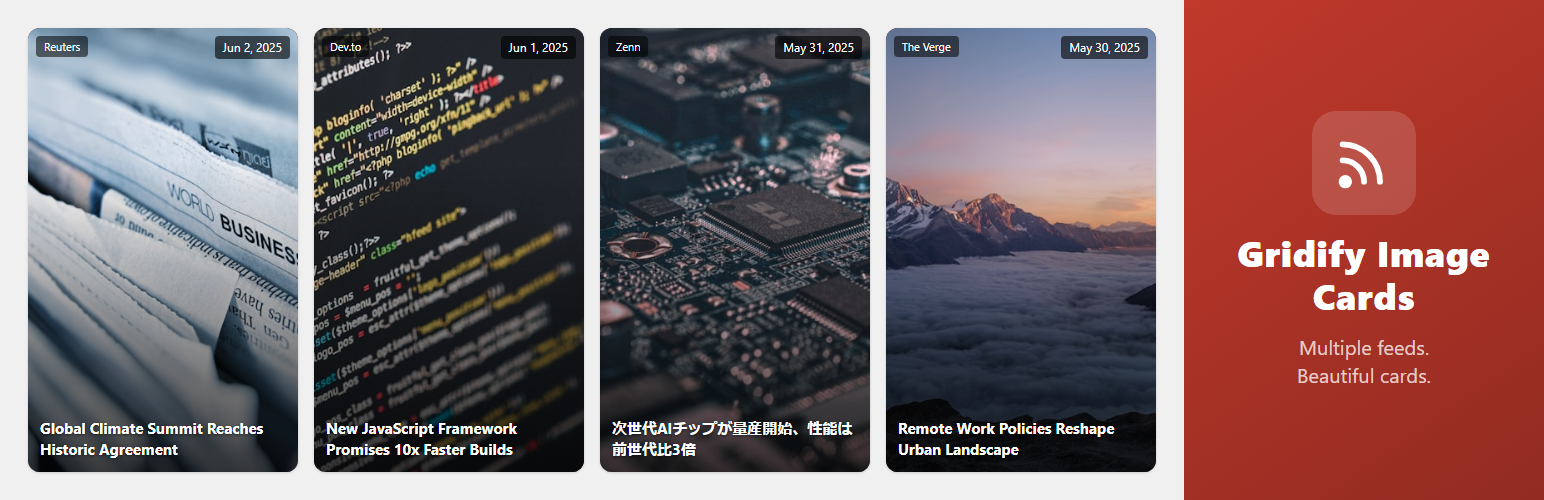
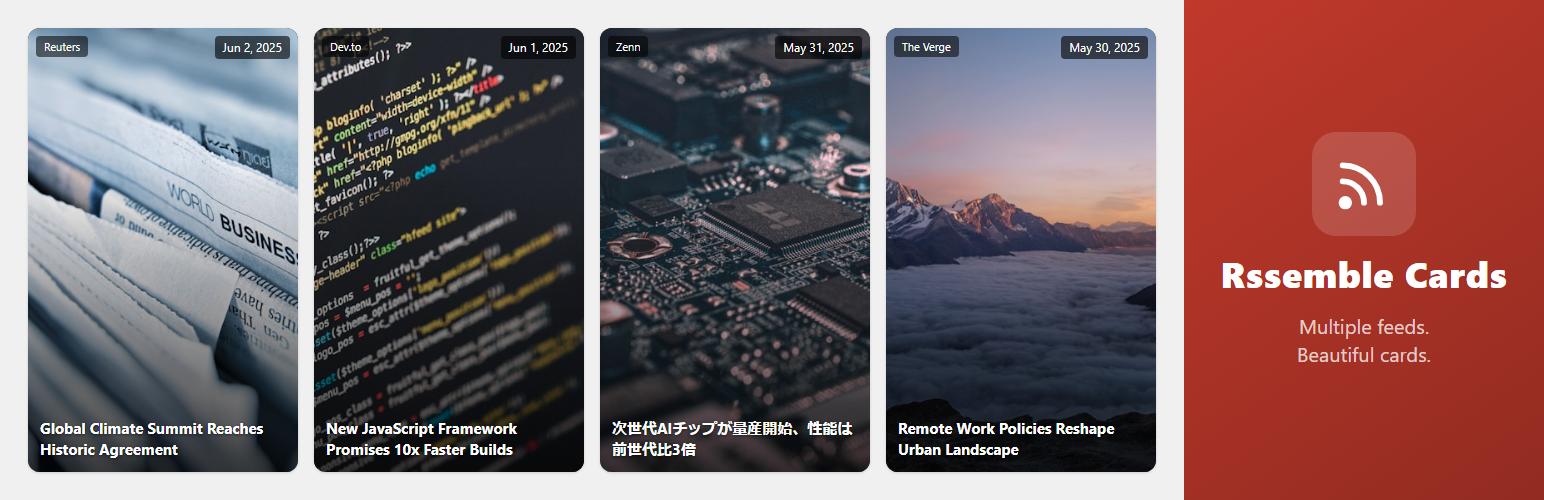
feat: 日本語対応・アセット更新・コード品質修正
- readme-ja.txt 追加（WordPress.org 日本語ページ）
- Playwright でバナー・アイコン画像を再生成（wp-assets/）
- package.json: name を rssemble-cards-for-rss-feeds に修正、generate-assets スクリプト登録
- CLAUDE.md: ディレクトリ構成・デプロイフロー・日本語対応手順を追記
- po2mo.js: require を先頭に集約、moPath 未指定時の TypeError を早期エラーで防止
- tests/run.php: .pot/.mo 不在時の file_get_contents/filemtime を存在チェックでガード

Changed region(s): [[0.7772, 0.21, 0.9948, 0.78]]

diff --git a/scripts/po2mo.js b/scripts/po2mo.js
@@ -3,9 +3,32 @@
  * Usage: node scripts/po2mo.js <input.po> <output.mo>
  */
 const fs = require('fs');
+const path = require('path');
+const { spawnSync } = require('child_process');
 
 const poPath = process.argv[2];
 const moPath = process.argv[3];
+
+// 引数なし: languages/ 配下の .po を全て変換
+if (!poPath) {
+  const langDir = path.join(__dirname, '../rssemble-cards-for-rss-feeds/languages');
+  const files = fs.readdirSync(langDir).filter(f => f.endsWith('.po'));
+  if (files.length === 0) { console.log('No .po files found.'); process.exit(0); }
+  let exitCode = 0;
+  for (const f of files) {
+    const src = path.join(langDir, f);
+    const dst = src.replace(/\.po$/, '.mo');
+    const result = spawnSync(process.execPath, [__filename, src, dst], { stdio: 'inherit' });
+    if (result.status !== 0) { exitCode = 1; }
+  }
+  process.exit(exitCode);
+}
+
+if (!moPath) {
+  console.error('Usage: node po2mo.js <input.po> <output.mo>');
+  process.exit(1);
+}
+
 const po = fs.readFileSync(poPath, 'utf8');
 
 const entries = [];

diff --git a/tests/run.php b/tests/run.php
@@ -456,6 +456,53 @@ assert_contains( 'rss-d-carousel-prev', $html_carousel_internal, 'render_carouse
 assert_contains( 'rss-d-carousel-next', $html_carousel_internal, 'render_carousel: next ボタンが出力される' );
 
 // -----------------------------------------------------------------------
+// i18n 回帰テスト
+// -----------------------------------------------------------------------
+
+section( 'i18n: プラグインヘッダー宣言' );
+
+$plugin_file = file_get_contents( __DIR__ . '/../rssemble-cards-for-rss-feeds/rssemble-cards-for-rss-feeds.php' );
+assert_contains( 'Text Domain:',                 $plugin_file, 'ヘッダーに Text Domain が宣言されている' );
+assert_contains( 'rssemble-cards-for-rss-feeds', $plugin_file, 'Text Domain が正しいスラグ値になっている' );
+assert_contains( 'Domain Path:',                 $plugin_file, 'ヘッダーに Domain Path が宣言されている' );
+assert_contains( '/languages',                   $plugin_file, 'Domain Path が /languages になっている' );
+
+section( 'i18n: .pot ファイル' );
+
+$pot_path = __DIR__ . '/../rssemble-cards-for-rss-feeds/languages/rssemble-cards-for-rss-feeds.pot';
+assert_true( file_exists( $pot_path ), '.pot ファイルが存在する' );
+if ( file_exists( $pot_path ) ) {
+	$pot = file_get_contents( $pot_path );
+	assert_contains( 'msgid',                        $pot, '.pot に msgid エントリが含まれる' );
+	assert_contains( 'rssemble-cards-for-rss-feeds', $pot, '.pot にテキストドメインが含まれる' );
+}
+
+section( 'i18n: 日本語 .mo / .po ファイル' );
+
+$mo_path = __DIR__ . '/../rssemble-cards-for-rss-feeds/languages/rssemble-cards-for-rss-feeds-ja.mo';
+$po_path = __DIR__ . '/../rssemble-cards-for-rss-feeds/languages/rssemble-cards-for-rss-feeds-ja.po';
+assert_true( file_exists( $mo_path ), '日本語 .mo ファイルが存在する' );
+assert_true( file_exists( $po_path ), '日本語 .po ファイルが存在する' );
+if ( file_exists( $mo_path ) && file_exists( $po_path ) ) {
+	assert_true( filemtime( $mo_path ) >= filemtime( $po_path ), '.mo が .po より新しい（再コンパイル済み）' );
+}
+
+section( 'i18n: テキストドメイン統一チェック' );
+
+$php_files         = glob( __DIR__ . '/../rssemble-cards-for-rss-feeds/includes/*.php' );
+$wrong_domain_found = false;
+$wrong_domain_file  = '';
+foreach ( $php_files as $f ) {
+	$src = file_get_contents( $f );
+	if ( preg_match( '/(?:esc_html__|esc_attr__|esc_html_e|_e|__)\s*\(\s*[\'"][^\'"]+[\'"]\s*,\s*[\'"](?!rssemble-cards-for-rss-feeds)[^\'"]+[\'"]\s*\)/', $src ) ) {
+		$wrong_domain_found = true;
+		$wrong_domain_file  = basename( $f );
+		break;
+	}
+}
+assert_false( $wrong_domain_found, 'includes/*.php 内の __() は全て正しいテキストドメインを使っている' . ( $wrong_domain_file ? " (問題ファイル: {$wrong_domain_file})" : '' ) );
+
+// -----------------------------------------------------------------------
 // 結果サマリ
 // -----------------------------------------------------------------------
 

diff --git a/CLAUDE.md b/CLAUDE.md
@@ -6,6 +6,10 @@ This file provides guidance to Claude Code (claude.ai/code) when working with co
 
 WordPress プラグイン。複数のRSSフィードを取得し、OGP画像付きカードグリッドとして表示する。外部サービス依存なし（WordPress組み込みのSimplePie・トランジェント・DOMDocumentのみ使用）。
 
+WordPress.org に承認・公開済み（2026-06-07 リリース）。  
+プラグインスラグ: `rssemble-cards-for-rss-feeds`  
+WordPress.org URL: https://wordpress.org/plugins/rssemble-cards-for-rss-feeds/
+
 ## Commands
 
 ```bash
@@ -20,17 +24,65 @@ php -S localhost:8080 preview/router.php
 npm run zip
 # → rssemble-cards-for-rss-feeds.zip
 
-# .pot / .po → .mo コンパイル
+# .po → .mo コンパイル（引数なしで languages/*.po を全処理）
 node scripts/po2mo.js
+
+# WordPress.org アセット画像の再生成（Playwright使用）
+node scripts/generate-assets.js
+# → wp-assets/icon-256x256.png, banner-772x250.png, banner-1544x500.png
 ```
 
 ## Architecture
 
-`preview/` は `wp-stub.php` で WP API をモックしたスタンドアロン環境。`tests/` は PHPUnit 不要の独自ランナー、`tests/e2e/` は Playwright。
+`preview/` は `wp-stub.php` で WP API をモックしたスタンドアロン環境。`tests/` は PHPUnit 不要の独自ランナー。
+
+### ディレクトリ構成
+
+```
+rssemble-cards-for-rss-feeds/   ← プラグイン本体（SVN trunk/ にデプロイされる）
+  includes/
+    class-admin.php             ← 管理画面UI・設定・フィードステータス
+    class-feed-manager.php      ← RSS取得・OGP解決・キャッシュ管理
+    class-shortcode.php         ← ショートコード処理・HTML出力
+  assets/
+    css/rssemble-cards-for-rss-feeds.css  ← フロントエンドCSS（クラス名: rss-d-*）
+    css/admin.css               ← 管理画面CSS
+    js/rssemble-cards-for-rss-feeds.js    ← フロントエンドJS
+    js/admin.js                 ← 管理画面JS
+    img/placeholder.png         ← デフォルト画像
+    screenshot-1.png / screenshot-2.png   ← WordPress.org スクリーンショット
+  languages/
+    rssemble-cards-for-rss-feeds.pot      ← 翻訳テンプレート
+    rssemble-cards-for-rss-feeds-ja.po    ← 日本語翻訳ソース
+    rssemble-cards-for-rss-feeds-ja.mo    ← コンパイル済み翻訳（自動生成）
+  readme.txt                    ← WordPress.org 英語説明（必須）
+  readme-ja.txt                 ← WordPress.org 日本語説明
+wp-assets/                      ← WordPress.org SVN assets/ にデプロイされる
+  banner-772x250.png
+  banner-1544x500.png
+  icon-256x256.png
+scripts/
+  generate-assets.js            ← Playwright でバナー・アイコン画像を生成
+  make-zip.js                   ← 提出用ZIP生成
+  po2mo.js                      ← .po → .mo コンパイル
+.github/workflows/
+  release.yml                   ← タグpush時: GitHub Release作成 + SVNデプロイ
+  sync-docs.yml                 ← main push時: docs/へCSS同期
+```
+
+### デプロイフロー（GitHub Actions）
+
+1. `git tag v1.x.x && git push origin v1.x.x` でトリガー
+2. `release.yml` が実行：
+   - ZIP作成 → GitHub Release作成
+   - `10up/action-wordpress-plugin-deploy` で WordPress.org SVN にデプロイ
+   - `BUILD_DIR: ./rssemble-cards-for-rss-feeds` → SVN `trunk/` へ
+   - `ASSETS_DIR: ./wp-assets` → SVN `assets/` へ（バナー・アイコン）
+   - Secrets: `SVN_USERNAME`, `SVN_PASSWORD`
 
 ### データフロー
 
-1. ショートコード実行 → `RSS_D_Feed_Manager::get_items()` → 各フィードを `get_feed_payload()` で取得
+1. ショートコード実行 → `RSSECAFO_Feed_Manager::get_items()` → 各フィードを `get_feed_payload()` で取得
 2. キャッシュ戦略：RSSはトランジェント（ユーザー設定TTL: 12h/1d/1w/1m）、OGP画像は固定1ヶ月
 3. 取得失敗時はstaleキャッシュをフォールバック表示
 4. 画像解決の優先順位：RSS内画像（media:content → media:thumbnail → enclosure）→ OGP取得（og:image等）→ デフォルト画像
@@ -39,11 +91,33 @@ node scripts/po2mo.js
 ### Key Constraints
 
 - PHP 7.4+、WordPress 6.0+
-- 設定は `rss_d_settings` オプションに保存。`RSS_Display::get_settings()` でデフォルトとマージして取得
-- トランジェントキー：RSS = `rss_d_feed_{md5(url)}`、OGP = `rss_d_ogp_{md5(url)}`
+- プレフィックス：関数・クラス・定数・フック・オプション・トランジェントキー・nonce はすべて `rssecafo_` / `RSSECAFO_`（旧名: `rss_d_` は廃止済み）
+- フロントエンドCSSクラス名は `rss-d-*`（プレフィックスとは別体系）
+- 設定は `rssecafo_settings` オプションに保存。`RSSECAFO_Plugin::get_settings()` でデフォルトとマージして取得
+- トランジェントキー：RSS = `rssecafo_feed_{md5(url)}`、OGP = `rssecafo_ogp_{md5(url)}`
 - アンインストール時は設定オプションのみ削除（トランジェントは自然失効に任せる）
+- `package.json` の `name` は `rssemble-cards-for-rss-feeds`（旧 `rss-grid-card` は修正済み）
+
+## 日本語対応
+
+### プラグインUI（管理画面）
+
+`languages/rssemble-cards-for-rss-feeds-ja.po` に全テキスト翻訳済み。`.mo` も生成済み。  
+変更時は `node scripts/po2mo.js` で `.mo` を再コンパイルすること。
+
+### WordPress.org ページ
+
+- `readme.txt` → 英語ページ（必須）
+- `readme-ja.txt` → 日本語ページ（SVN trunk/ に配置済み）
+- translate.wordpress.org でのコミュニティ翻訳は別途 https://translate.wordpress.org/projects/wp-plugins/rssemble-cards-for-rss-feeds/ja/
 
 ## WordPress.org 提出
 
 提出・再提出手順は `.claude/skills/submit-to-wporg.md` を参照。  
 提出前に `readme.txt` の `Tested up to:` を WordPress 最新安定版に更新すること。
+
+### アセット更新の手順
+
+バナー・アイコン画像を更新する場合:
+1. `node scripts/generate-assets.js` で `wp-assets/` を再生成
+2. `git add wp-assets/ && git commit` → `git tag v... && git push --tags` でActions経由でSVNに反映
